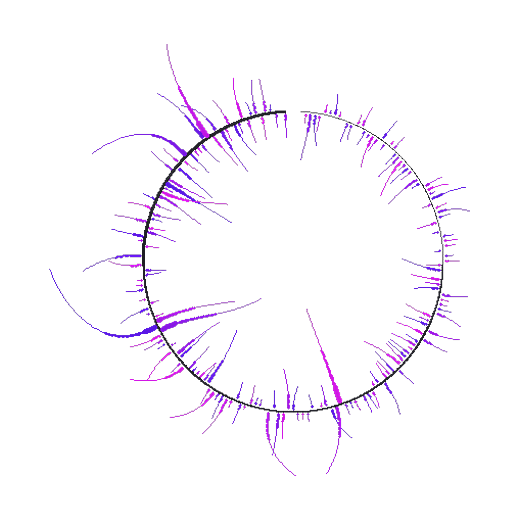
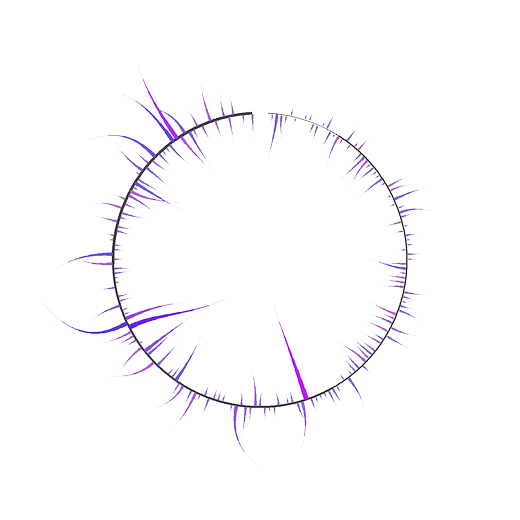
Refresh gallery glyphs with the v9 codec render (anti-aliased + brightness)
Re-render the six example glyphs (g1–g6) from their exact card texts and
colourways using the upgraded codec: supersampled anti-aliasing (smooth
strokes instead of PIL's aliased/beaded lines) and magnitude-scaled tendril
brightness in the semantic/dimension modes. Same texts, same schemes — just the
polished render that gen.orbly.to now produces. Bump ?v=3 → ?v=4 so browsers
refetch.

Claude-Session: https://claude.ai/code/session_019SA9tTx9JUW8atx3a4hjPQ

diff --git a/index.html b/index.html
@@ -227,7 +227,7 @@
             <div class="swatches">
               <div class="plate sel"><img src="assets/ps.png" alt="signed colourway"></div>
               <div class="plate sm"><img src="assets/pmag.png" alt="magnitude colourway"></div>
-              <div class="plate sm"><img src="assets/g6.png?v=3" alt="semantic colourway"></div>
+              <div class="plate sm"><img src="assets/g6.png?v=4" alt="semantic colourway"></div>
               <div class="plate sm"><img src="assets/pm.png" alt="muted colourway"></div>
             </div>
           </div>
@@ -272,12 +272,12 @@
         <p>Every message becomes its own mark — shown here across four colourways: signed, magnitude, semantic and muted.</p>
       </div>
       <div class="grid">
-        <div class="card"><div class="glow"><img src="assets/g1.png?v=3" alt="signed glyph"></div><div class="lab">Signed · Word</div><div class="txt">&ldquo;love&rdquo;</div></div>
-        <div class="card"><div class="glow"><img src="assets/g2.png?v=3" alt="magnitude glyph"></div><div class="lab">Magnitude · Sentence</div><div class="txt">&ldquo;The best thing to hold onto in life is each other.&rdquo;</div></div>
-        <div class="card"><div class="glow"><img src="assets/g3.png?v=3" alt="muted glyph"></div><div class="lab">Muted · Word</div><div class="txt">&ldquo;gravity&rdquo;</div></div>
-        <div class="card"><div class="glow"><img src="assets/g4.png?v=3" alt="semantic glyph"></div><div class="lab">Semantic · Sentence</div><div class="txt">&ldquo;Daria brings warmth to every room she walks into.&rdquo;</div></div>
-        <div class="card"><div class="glow"><img src="assets/g5.png?v=3" alt="signed glyph of a paragraph"></div><div class="lab">Signed · Paragraph</div><div class="txt">&ldquo;Quantum entanglement is a physical phenomenon where the state of each particle cannot be described independently of the others, even across a vast distance.&rdquo;</div></div>
-        <div class="card"><div class="glow"><img src="assets/g6.png?v=3" alt="semantic glyph of a phrase"></div><div class="lab">Semantic · Phrase</div><div class="txt">&ldquo;Creativity is contagious, pass it on.&rdquo;</div></div>
+        <div class="card"><div class="glow"><img src="assets/g1.png?v=4" alt="signed glyph"></div><div class="lab">Signed · Word</div><div class="txt">&ldquo;love&rdquo;</div></div>
+        <div class="card"><div class="glow"><img src="assets/g2.png?v=4" alt="magnitude glyph"></div><div class="lab">Magnitude · Sentence</div><div class="txt">&ldquo;The best thing to hold onto in life is each other.&rdquo;</div></div>
+        <div class="card"><div class="glow"><img src="assets/g3.png?v=4" alt="muted glyph"></div><div class="lab">Muted · Word</div><div class="txt">&ldquo;gravity&rdquo;</div></div>
+        <div class="card"><div class="glow"><img src="assets/g4.png?v=4" alt="semantic glyph"></div><div class="lab">Semantic · Sentence</div><div class="txt">&ldquo;Daria brings warmth to every room she walks into.&rdquo;</div></div>
+        <div class="card"><div class="glow"><img src="assets/g5.png?v=4" alt="signed glyph of a paragraph"></div><div class="lab">Signed · Paragraph</div><div class="txt">&ldquo;Quantum entanglement is a physical phenomenon where the state of each particle cannot be described independently of the others, even across a vast distance.&rdquo;</div></div>
+        <div class="card"><div class="glow"><img src="assets/g6.png?v=4" alt="semantic glyph of a phrase"></div><div class="lab">Semantic · Phrase</div><div class="txt">&ldquo;Creativity is contagious, pass it on.&rdquo;</div></div>
       </div>
     </div>
   </section>
